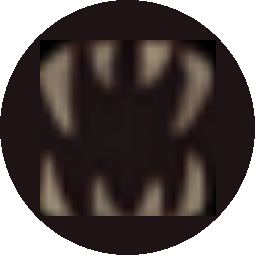
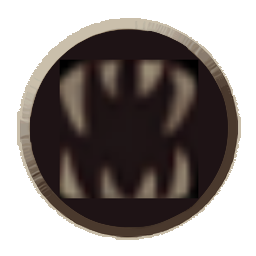
Update selection transitions

diff --git a/assets/css/styles.css b/assets/css/styles.css
@@ -25,7 +25,7 @@ input {
 [type=radio] + img {
     cursor: pointer;
     box-sizing: border-box;
-    transition: .2s;
+    transition: 0.4s;
     border-bottom: 5px solid rgba(0, 0, 0, 0);
     border-radius: 30%;
     padding: 6px;
@@ -33,7 +33,7 @@ input {
   
   /* CHECKED STYLES */
 [type=radio]:checked + img {
-    border-bottom: 5px solid black;
+    border-bottom: 5px solid #444;
     border-radius: 50%;
 }
 
@@ -69,12 +69,12 @@ input {
     left: 50%;
     margin-left: -60px;
     font-family: 'Libre Franklin', sans-serif;
-    
 }
 
 .tooltip:hover .tooltiptext {
     transition-delay: 0.3s;
     visibility: visible;
+    pointer-events: none;
 }
 
 .text label {
@@ -121,7 +121,7 @@ input {
 #inputs {
     width: 50%;
     padding: 15px;
-    border: 1px solid black;
+    border: 1px solid #444;
     margin: 5px;
     height: min-content;
     min-width: 400px;
